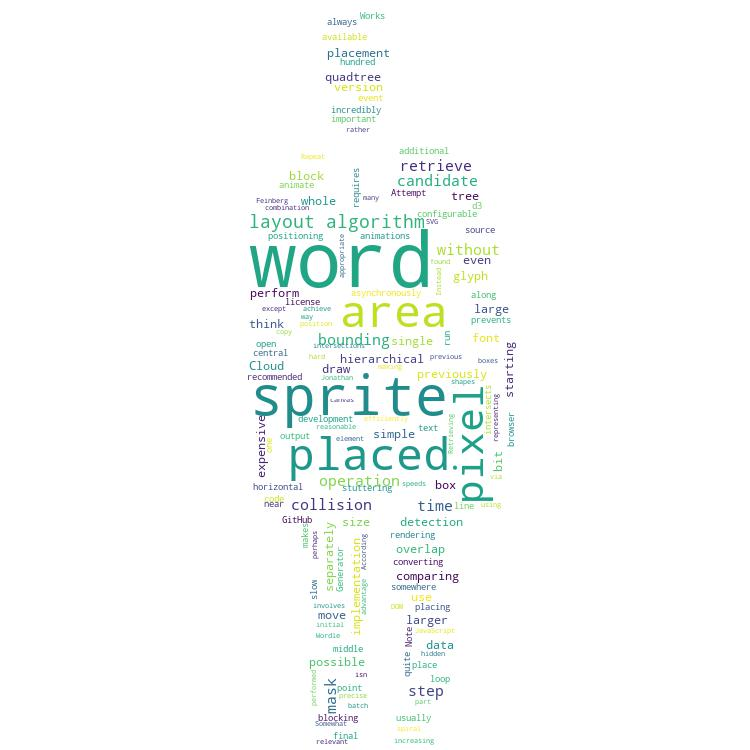
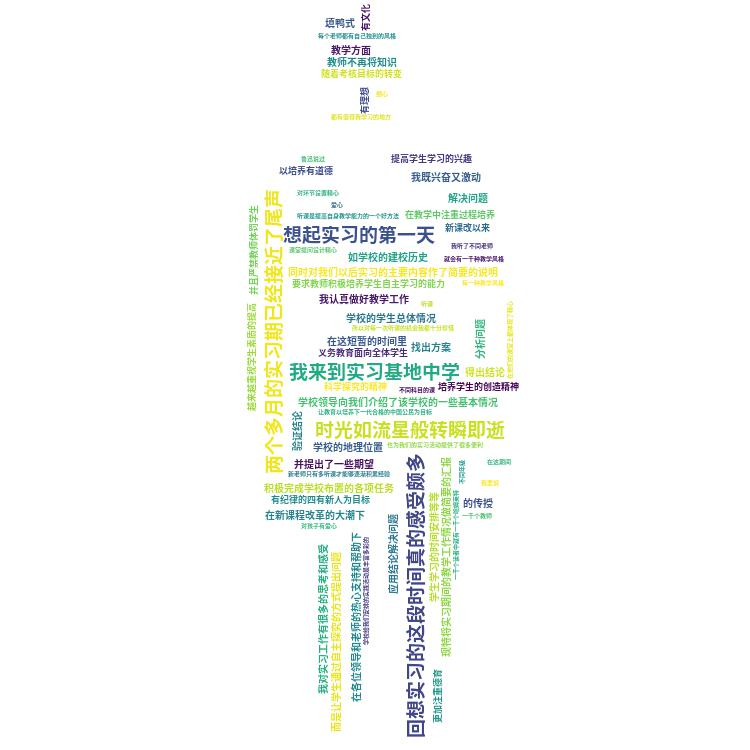
jieba success

Changed region(s): [[0.3067, 0.184, 0.7053, 1.0], [0.4293, 0.0, 0.552, 0.184]]

diff --git a/test4.py b/test4.py
@@ -1,33 +1,16 @@
-#!/usr/bin/python
-# -*- coding: utf-8 -*-
-#coding=utf-8
-
-#导入wordcloud模块和matplotlib模块
-from wordcloud import WordCloud, ImageColorGenerator
-import matplotlib.pyplot as plt
+import jieba.analyse
+from os import path
 from scipy.misc import imread
-
-
-#读取一个txt文件
-
+import matplotlib as mpl
+import matplotlib.pyplot as plt
+from wordcloud import WordCloud, STOPWORDS, ImageColorGenerator
 text = open('/home/sun/Documents/test.txt','r').read()
-
-#读入背景图片
-
+tags = jieba.analyse.extract_tags(text, topK=100, withWeight=False)
+text = " ".join(tags)
+print(text)
 bg_pic = imread('3.png')
-
-#生成词云
-
 wordcloud = WordCloud(font_path='/usr/share/fonts/opentype/noto/NotoSansCJK-Bold.ttc',mask=bg_pic,background_color='white',scale=1.5).generate(text)
-
 image_colors = ImageColorGenerator(bg_pic)
-#显示词云图片
-
 plt.imshow(wordcloud)
 plt.axis('off')
 plt.show()
-
-
-#保存图片
-
-#wordcloud.to_file('test.jpg')

diff --git a/main.py b/main.py
@@ -25,7 +25,7 @@ print(corpos)
 '''
 import jieba
 import jieba.analyse
-words=jieba.cut("漂亮可爱被骚浩嫌弃的杨苗苗是个王八蛋")
+words=jieba.cut("招商银行是商业银行")
 print("/".join(words))
 tags = jieba.analyse.extract_tags(words, topK=100, withWeight=False)
 text=" ".join(tags)
